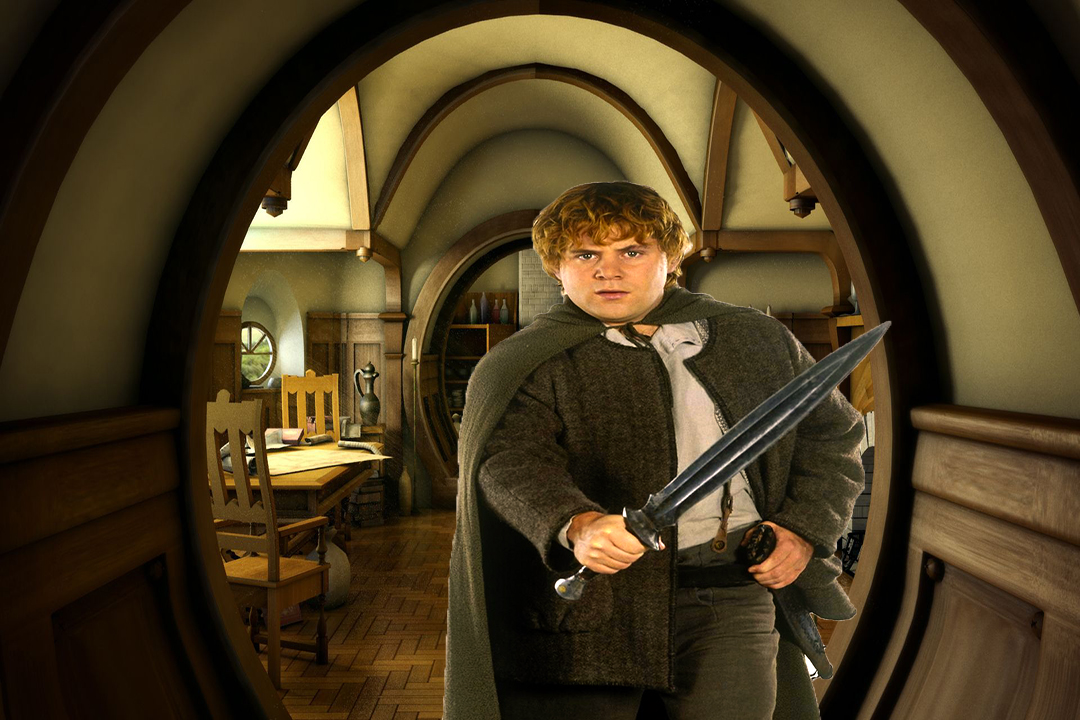
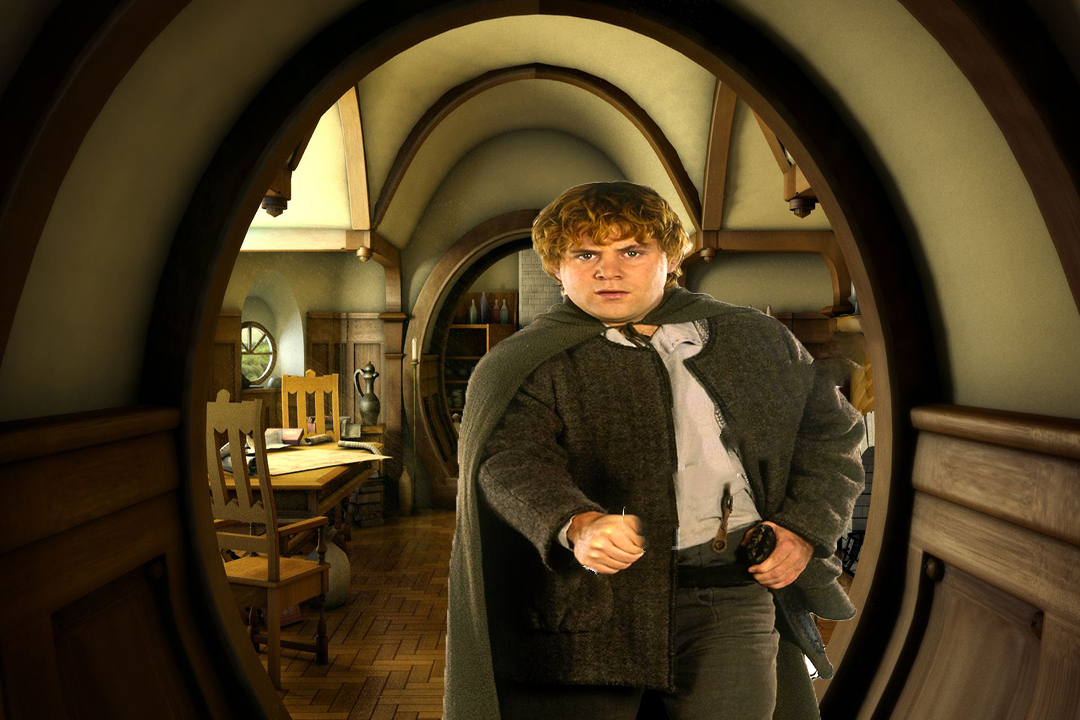
FINAL

Changed region(s): [[0.5806, 0.4278, 0.825, 0.7639], [0.4889, 0.7944, 0.55, 0.8556]]

diff --git a/src/main/java/com/mycompany/progetto/Rooms/InventoryForm.java b/src/main/java/com/mycompany/progetto/Rooms/InventoryForm.java
@@ -23,7 +23,7 @@ public class InventoryForm extends javax.swing.JFrame {
         this.setLocationRelativeTo(null);
         this.setSize(inventoryWindow);
         this.setResizable(false);
-        getInventory().setBackground(jLabel1);
+        getInventory().setBackground(griglia);
     }
 
     /**
@@ -35,14 +35,14 @@ public class InventoryForm extends javax.swing.JFrame {
     // <editor-fold defaultstate="collapsed" desc="Generated Code">//GEN-BEGIN:initComponents
     private void initComponents() {
 
-        jLabel1 = new javax.swing.JLabel();
+        griglia = new javax.swing.JLabel();
 
         setDefaultCloseOperation(javax.swing.WindowConstants.DISPOSE_ON_CLOSE);
         getContentPane().setLayout(null);
 
-        jLabel1.setIcon(new javax.swing.ImageIcon(getClass().getResource("/images/inventory.png"))); // NOI18N
-        getContentPane().add(jLabel1);
-        jLabel1.setBounds(-2, -4, 600, 270);
+        griglia.setIcon(new javax.swing.ImageIcon(getClass().getResource("/images/inventory.png"))); // NOI18N
+        getContentPane().add(griglia);
+        griglia.setBounds(-2, -4, 600, 270);
 
         pack();
     }// </editor-fold>//GEN-END:initComponents
@@ -83,6 +83,6 @@ public class InventoryForm extends javax.swing.JFrame {
     }
 
     // Variables declaration - do not modify//GEN-BEGIN:variables
-    public javax.swing.JLabel jLabel1;
+    public javax.swing.JLabel griglia;
     // End of variables declaration//GEN-END:variables
 }

diff --git a/src/main/java/com/mycompany/progetto/Rooms/Room15.java b/src/main/java/com/mycompany/progetto/Rooms/Room15.java
@@ -109,7 +109,7 @@ public class Room15 extends javax.swing.JFrame {
         text.setForeground(new java.awt.Color(255, 255, 255));
         text.setOpaque(true);
         text.setPreferredSize(new java.awt.Dimension(1080, 40));
-        getContentPane().add(text, new org.netbeans.lib.awtextra.AbsoluteConstraints(0, 650, -1, -1));
+        getContentPane().add(text, new org.netbeans.lib.awtextra.AbsoluteConstraints(0, 680, -1, -1));
 
         luogo.setBackground(new java.awt.Color(0, 0, 0));
         luogo.setFont(new java.awt.Font("Papyrus", 3, 24)); // NOI18N
@@ -126,7 +126,7 @@ public class Room15 extends javax.swing.JFrame {
                 inventarioActionPerformed(evt);
             }
         });
-        getContentPane().add(inventario, new org.netbeans.lib.awtextra.AbsoluteConstraints(0, 550, -1, -1));
+        getContentPane().add(inventario, new org.netbeans.lib.awtextra.AbsoluteConstraints(0, 590, -1, -1));
 
         paglia.setIcon(new javax.swing.ImageIcon(getClass().getResource("/images/paglia.png"))); // NOI18N
         paglia.setBorderPainted(false);

diff --git a/src/main/java/com/mycompany/progetto/Rooms/Room22.java b/src/main/java/com/mycompany/progetto/Rooms/Room22.java
@@ -97,7 +97,7 @@ public class Room22 extends javax.swing.JFrame {
         text.setFont(new java.awt.Font("Papyrus", 3, 18)); // NOI18N
         text.setForeground(new java.awt.Color(255, 255, 255));
         text.setOpaque(true);
-        getContentPane().add(text, new org.netbeans.lib.awtextra.AbsoluteConstraints(0, 640, 1080, 40));
+        getContentPane().add(text, new org.netbeans.lib.awtextra.AbsoluteConstraints(0, 680, 1080, 40));
 
         name.setBackground(new java.awt.Color(0, 0, 0));
         name.setFont(new java.awt.Font("Papyrus", 3, 24)); // NOI18N
@@ -125,7 +125,7 @@ public class Room22 extends javax.swing.JFrame {
                 inventoryActionPerformed(evt);
             }
         });
-        getContentPane().add(inventory, new org.netbeans.lib.awtextra.AbsoluteConstraints(0, 540, -1, -1));
+        getContentPane().add(inventory, new org.netbeans.lib.awtextra.AbsoluteConstraints(0, 590, -1, -1));
 
         ring.setIcon(new javax.swing.ImageIcon(getClass().getResource("/images/ring.png"))); // NOI18N
         ring.setBorderPainted(false);

diff --git a/src/main/java/com/mycompany/progetto/Rooms/Room7.java b/src/main/java/com/mycompany/progetto/Rooms/Room7.java
@@ -36,7 +36,7 @@ public class Room7 extends javax.swing.JFrame {
                 protected Void doInBackground() throws Exception {
                     this.publish("SAM:'Bilbo mi sono rifugiato qui appana ho sentito dei troll...'");
                     Thread.sleep(3000);
-                    this.publish("SAM:'Ho 2 spade con me'");
+                    this.publish("SAM:'Ho una spada con me'");
                     Thread.sleep(3000);
                     this.publish("SAM:'Prendine una,magari ti può tornare utile!'");
                     Thread.sleep(3000);
